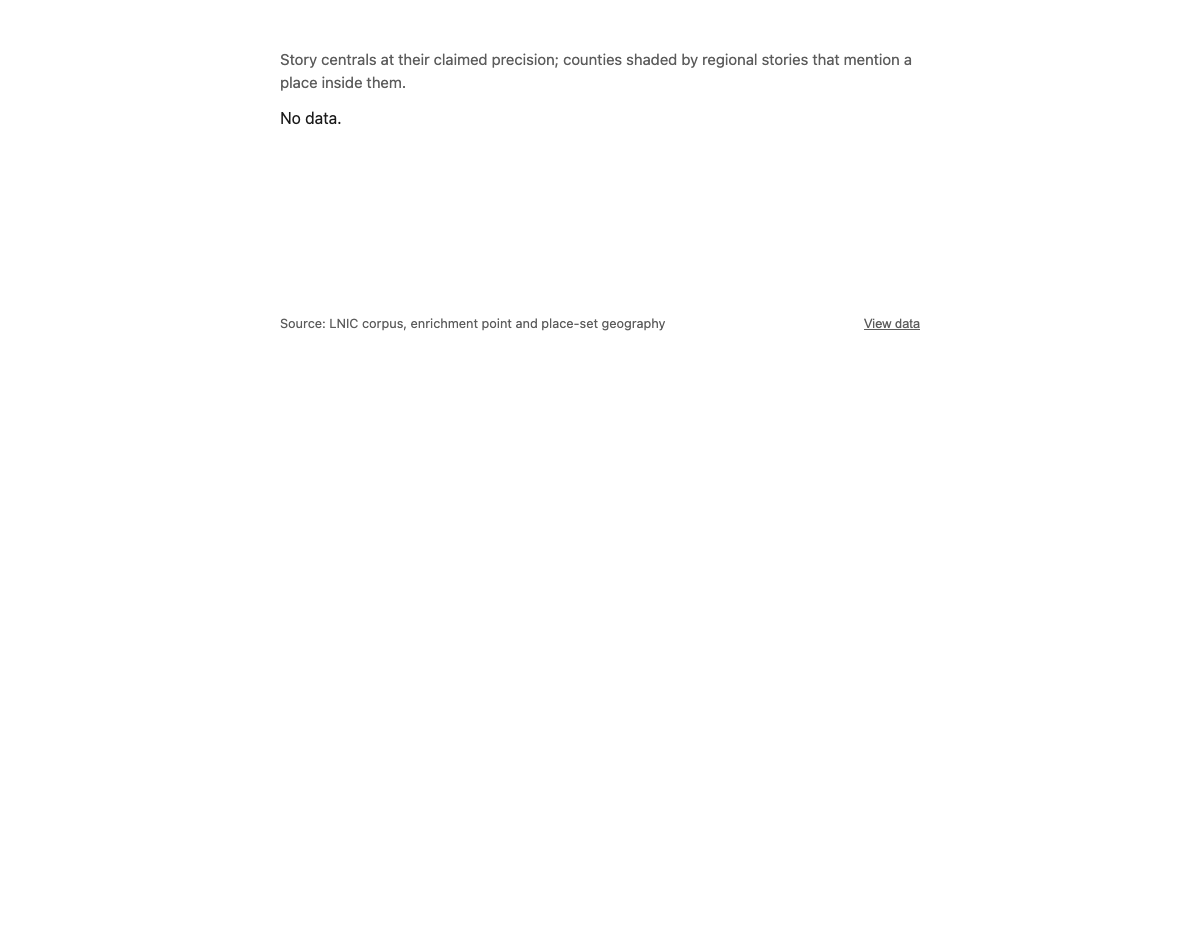
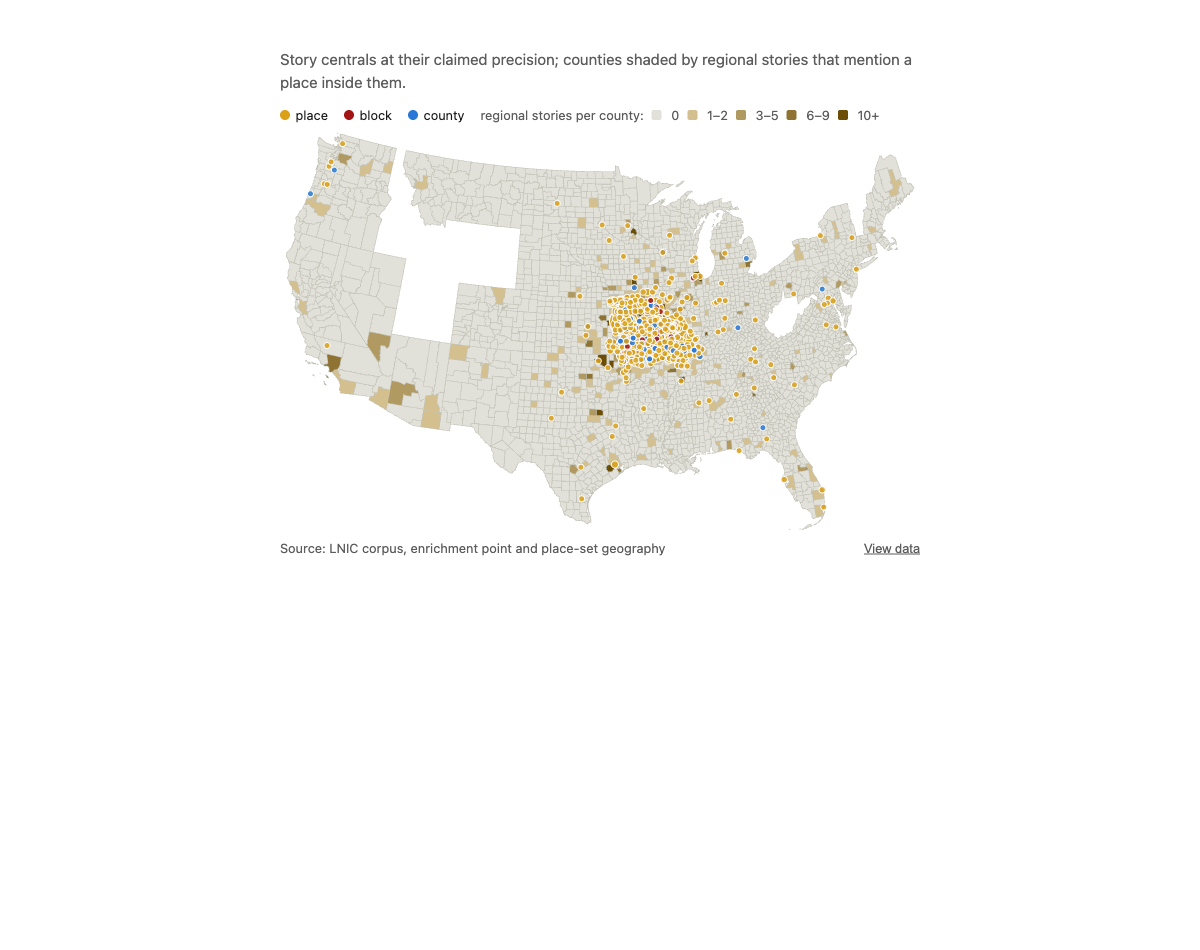
Story map: focus frames the view without punching holes in the map

Changed region(s): [[0.2158, 0.1221, 0.7708, 0.58], [0.74, 0.5495, 0.7708, 0.6105], [0.5242, 0.5495, 0.555, 0.58]]

diff --git a/static/js/datadesk-chart.js b/static/js/datadesk-chart.js
@@ -770,17 +770,44 @@
       return;
     }
 
-    // States in play come from both layers, so a single-state corpus
-    // draws that state rather than the whole country.
     const ids = [
       ...areas.map((a) => String(a.county || "")),
       ...points.map((p) => String(p.geoid || "")),
     ].filter(Boolean);
-    const states = new Set(ids.map((id) => id.slice(0, 2)).filter((s2) => /^\d\d$/.test(s2)));
 
     boundaries(opts.geoBase, "counties", ids).then((features) => {
-      const inScope = features.filter((f) => states.has(String(f.id).slice(0, 2)));
-      const shown = inScope.length ? inScope : features;
+      // Focus decides the frame, never what is drawn: every county in
+      // view is painted, so a state without stories reads as "none"
+      // rather than as a hole in the map.
+      const focus = String(config.focus || "").trim();
+      let framed;
+      if (/^\d{5}$/.test(focus)) {
+        // A county focus frames its whole state — a lone county floating
+        // in white says nothing about where it is.
+        framed = features.filter((f) => String(f.id).slice(0, 2) === focus.slice(0, 2));
+      } else if (/^\d{2}$/.test(focus)) {
+        framed = features.filter((f) => String(f.id).slice(0, 2) === focus);
+      } else {
+        // Auto: frame the states carrying most of the stories, so a
+        // handful of distant mentions do not zoom the map out to the
+        // whole country.
+        const weight = new Map();
+        for (const a of areas) {
+          const st = String(a.county).slice(0, 2);
+          weight.set(st, (weight.get(st) || 0) + a.stories);
+        }
+        for (const p of points) {
+          const st = String(p.geoid || "").slice(0, 2);
+          if (st) weight.set(st, (weight.get(st) || 0) + p.stories);
+        }
+        const total = [...weight.values()].reduce((a, b) => a + b, 0);
+        const keep = new Set(
+          [...weight].filter(([, n]) => n >= total * 0.02).map(([st]) => st));
+        framed = features.filter((f) => keep.has(String(f.id).slice(0, 2)));
+      }
+      if (!framed.length) framed = features;
+      // Draw every county whose state is in frame plus the frame itself.
+      const shown = features;
       const byCounty = new Map(areas.map((a) => [String(a.county), a.stories]));
       const max = d3.max(areas, (a) => a.stories) || 0;
       const ramp = quantizeRamp(t.seqLow, t.seqHigh, 5);
@@ -790,7 +817,7 @@
 
       const projection = d3.geoAlbersUsa().fitSize(
         [width, Math.round(width * 0.62)],
-        { type: "FeatureCollection", features: shown });
+        { type: "FeatureCollection", features: framed });
       const path = d3.geoPath(projection);
       const height = Math.round(width * 0.62);
       const svg = d3.create("svg")
@@ -799,8 +826,12 @@
         .attr("style",
           'max-width:100%;height:auto;display:block;font-family:system-ui,' +
           '-apple-system,"Segoe UI",sans-serif;font-size:12px');
+      const clipId = "dd-clip-" + Math.abs(width | 0) + "-" + shown.length;
+      svg.append("clipPath").attr("id", clipId)
+        .append("rect").attr("width", width).attr("height", height);
+      const frame = svg.append("g").attr("clip-path", `url(#${clipId})`);
 
-      const counties = svg.append("g").selectAll("path").data(shown).join("path")
+      const counties = frame.append("g").selectAll("path").data(shown).join("path")
         .attr("d", path)
         .attr("fill", (f) => shadeFor(byCounty.get(String(f.id))))
         .attr("stroke", t.boundary).attr("stroke-width", 0.6);
@@ -810,7 +841,7 @@
         .range([2.5, Math.max(9, width / 45)]);
       const placed = points.filter(
         (p) => p.lon != null && p.lat != null && projection([p.lon, p.lat]));
-      const dots = svg.append("g").selectAll("circle").data(placed).join("circle")
+      const dots = frame.append("g").selectAll("circle").data(placed).join("circle")
         .attr("transform", (p) => `translate(${projection([p.lon, p.lat])})`)
         .attr("r", (p) => r(p.stories))
         .attr("fill", (p) => t.series[PRECISION[p.level] ?? 5])

diff --git a/templates/visuals/builder_edit.html b/templates/visuals/builder_edit.html
@@ -40,7 +40,7 @@
           <label>Value <select name="value" data-columns data-optional></select></label>
         </fieldset>
 
-        <fieldset data-kinds="choropleth points">
+        <fieldset data-kinds="choropleth points storymap">
           <legend>Map (GIS)</legend>
           <label>Boundaries
             <select name="geo_level">
@@ -65,6 +65,9 @@
           <label>Point size <select name="size" data-columns data-optional></select></label>
           <label>Point label <select name="label" data-columns data-optional></select></label>
           <label class="inline"><input type="checkbox" name="geo_fit" value="1"> Zoom to data</label>
+          <label data-kinds="storymap">Focus (state or county FIPS)
+            <input type="text" name="focus" placeholder="29 or 29019">
+          </label>
         </fieldset>
 
         <fieldset>

diff --git a/visuals/builder.py b/visuals/builder.py
@@ -41,6 +41,7 @@ _STRING_KEYS = (
     "geo_join",
     "geo_value",
     "geo_palette",
+    "focus",
     "lat",
     "lon",
 )
